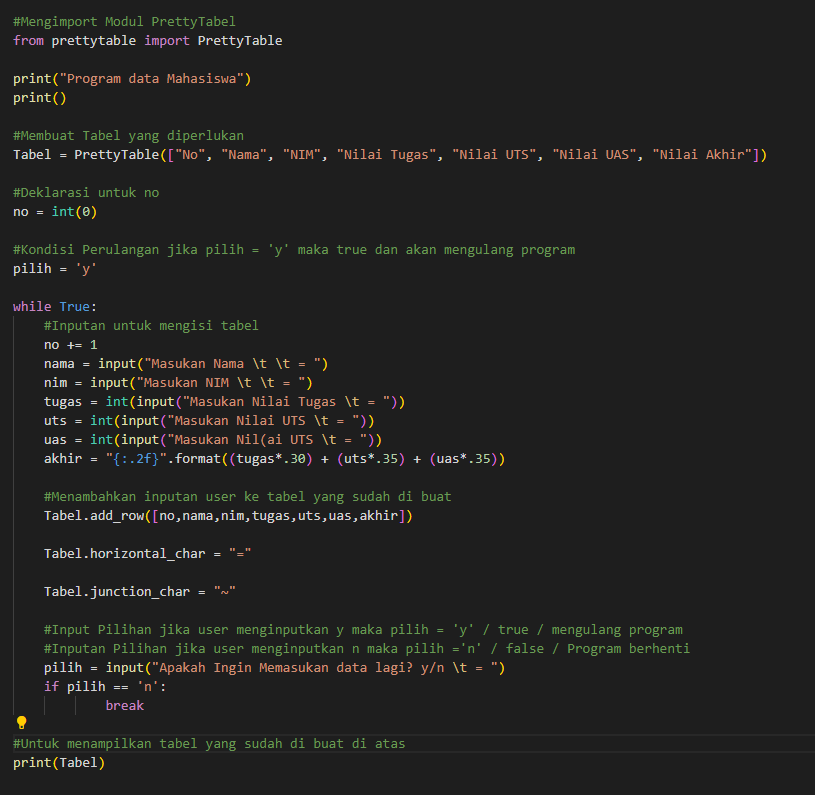
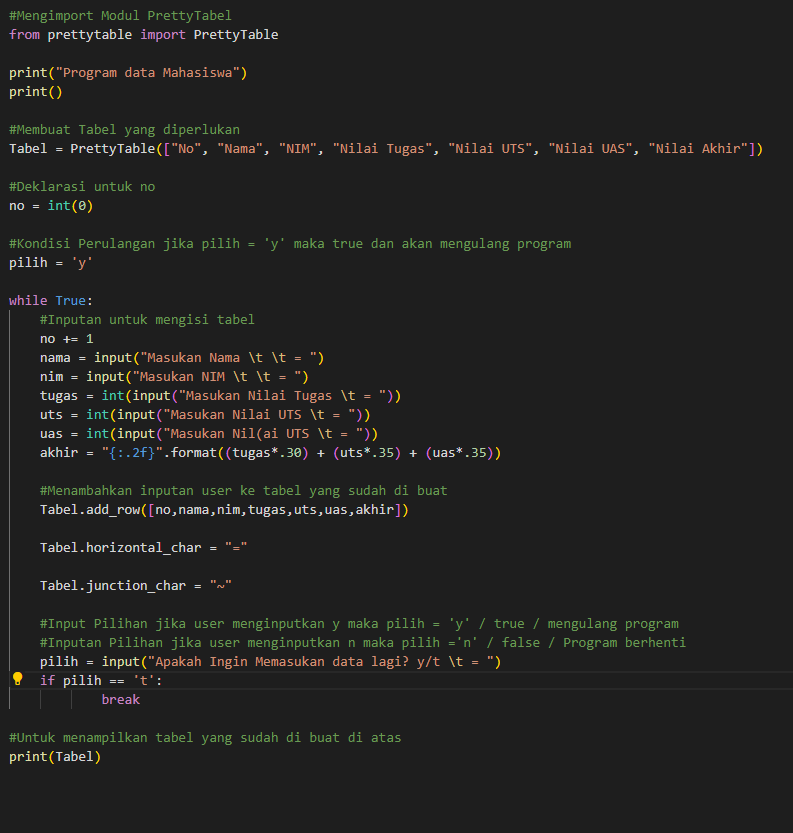
Praktikum 5

diff --git a/Lab5py/praktikum5.py b/Lab5py/praktikum5.py
@@ -33,8 +33,8 @@ while True:
 
     #Input Pilihan jika user menginputkan y maka pilih = 'y' / true / mengulang program
     #Inputan Pilihan jika user menginputkan n maka pilih ='n' / false / Program berhenti
-    pilih = input("Apakah Ingin Memasukan data lagi? y/n \t = ")
-    if pilih == 'n':
+    pilih = input("Apakah Ingin Memasukan data lagi? y/t \t = ")
+    if pilih == 't':
             break
 
 #Untuk menampilkan tabel yang sudah di buat di atas

diff --git a/README.md b/README.md
@@ -82,3 +82,33 @@ Untuk pembuatan tabel nya disini saya menggunakan PrettyTable yang sudah disedia
 ```python
 form prettytable import PrettyTable 
 ```
+
+Setelah model berhasil di import saya membuat tabel baru seperti ini
+
+```python
+Tabel = PrettyTable(["No", "Nama", "NIM", "Nilai Tugas", "Nilai UTS", "Nilai UAS", "Nilai Akhir"])
+```
+
+lanjut dengan membuat kondisi dimana jika true maka program berjalan <br/>
+lalu meminta user untuk memasukan data sesuai dengan tabel yang tadi di buat <br/>
+dan untuk Nilai Akhir diambil dari perhitungan 3 komponen nilai ```(tugas: 30%, uts: 35%, uas: 35%)```saya menggunakan format sebagai berikut <br/>
+
+```python
+akhir = "{:.2f}".format((tugas*.30) + (uts*.35) + (uas*.35))
+```
+setelah itu memasukan semua data ke dalam tabel yang sudah di buat tadi <br/>
+Terakhir ada Decision / pilihan untuk menambah data (y/t?), apabila jawaban t (Tidak), maka program akan
+  menampilkan daftar datanya
+
+Untuk program nya seperti ini <br/>
+![Gambar 11](Screnshoot/ss11.png)<br/>
+
+Berikut hasil output program nya
+![Gambar 13](Screnshoot/ss13.png)
+
+
+
+
+
+
+
